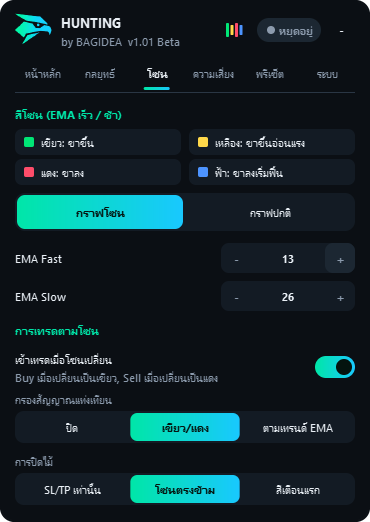
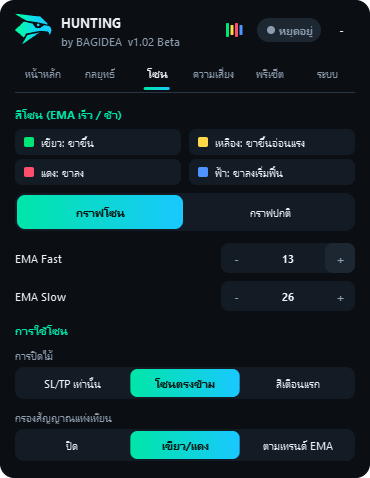
Publish Hunting website v1.02 Beta

diff --git a/index.html b/index.html
@@ -60,7 +60,7 @@
   <h2>ทุกอย่างที่ต้องใช้ อยู่ใน EA เดียว</h2>
   <div class="grid">
     <article class="card"><h3>สัญญาณแท่งเทียน 3 แบบ</h3><p>Doji Reversal, Trend Continuation และ Pin Bar Breakout เปิดปิดแยกกันได้ และปรับความไวได้</p></article>
-    <article class="card"><h3>Trend Zone 4 สี</h3><p>ระบายสีแท่งเทียนจาก EMA 12/26 ใช้กรองสัญญาณ เข้าไม้เมื่อโซนเปลี่ยน และปิดไม้ตามโซนได้</p></article>
+    <article class="card"><h3>Trend Zone 4 สี</h3><p>ระบายสีแท่งเทียนจาก EMA 12/26 ใช้ปิดไม้เมื่อโซนเปลี่ยน และเลือกกรองสัญญาณแท่งเทียนตามสีได้</p></article>
     <article class="card"><h3>เทรดทีละไม้หรือซ้อนไม้</h3><p>กำหนดจำนวนไม้สูงสุดและระยะห่างขั้นต่ำ บนบัญชี Netting ระบบจะจำกัดที่ครั้งละ 1 ไม้ให้เอง</p></article>
     <article class="card"><h3>ตัวป้องกันความเสี่ยง</h3><p>จำกัดขาดทุนรายวัน จำกัด Spread กำหนดเวลาเทรด และตรวจ Margin กับข้อกำหนดโบรกเกอร์ก่อนส่งออเดอร์</p></article>
     <article class="card"><h3>พรีเซ็ตนำเข้า/ส่งออกได้</h3><p>บันทึกการตั้งค่าเป็น .json เพื่อแชร์ และ .set เพื่อใช้ใน Strategy Tester ไฟล์ใช้ร่วมกันได้ทุก Terminal ในเครื่อง</p></article>
@@ -73,9 +73,9 @@
   <h2>อ่านเทรนด์ได้จากสีแท่งเทียน</h2>
   <p class="sub">สีของแต่ละแท่งมาจากความสัมพันธ์ของ EMA เร็ว (12) EMA ช้า (26) และราคาปิด ปรับค่า EMA ได้จากหน้า "โซน"</p>
   <div class="zones">
-    <article class="zone z-green"><span class="candle"></span><div><h3>เขียว: ขาขึ้น</h3><p>EMA 12 อยู่เหนือ EMA 26 และราคาปิดอยู่เหนือ EMA 12</p><small>EA เปิด Buy ได้เมื่อโซนเปลี่ยนเป็นสีนี้</small></div></article>
+    <article class="zone z-green"><span class="candle"></span><div><h3>เขียว: ขาขึ้น</h3><p>EMA 12 อยู่เหนือ EMA 26 และราคาปิดอยู่เหนือ EMA 12</p><small>EA ปิด Sell เมื่อโซนเปลี่ยนเป็นสีนี้</small></div></article>
     <article class="zone z-yellow"><span class="candle"></span><div><h3>เหลือง: ขาขึ้นอ่อนแรง</h3><p>EMA 12 ยังอยู่เหนือ EMA 26 แต่ราคาปิดหลุดต่ำกว่า EMA 12</p><small>สัญญาณเตือน เลือกให้ปิด Buy ที่จุดนี้ได้</small></div></article>
-    <article class="zone z-red"><span class="candle"></span><div><h3>แดง: ขาลง</h3><p>EMA 12 อยู่ใต้ EMA 26 และราคาปิดอยู่ใต้ EMA 12</p><small>EA เปิด Sell ได้เมื่อโซนเปลี่ยนเป็นสีนี้</small></div></article>
+    <article class="zone z-red"><span class="candle"></span><div><h3>แดง: ขาลง</h3><p>EMA 12 อยู่ใต้ EMA 26 และราคาปิดอยู่ใต้ EMA 12</p><small>EA ปิด Buy เมื่อโซนเปลี่ยนเป็นสีนี้</small></div></article>
     <article class="zone z-blue"><span class="candle"></span><div><h3>ฟ้า: ขาลงเริ่มฟื้น</h3><p>EMA 12 ยังอยู่ใต้ EMA 26 แต่ราคาปิดยืนเหนือ EMA 12 ได้</p><small>สัญญาณเตือน เลือกให้ปิด Sell ที่จุดนี้ได้</small></div></article>
   </div>
   <div class="view-switch" role="group" aria-label="สลับมุมมองกราฟ">
@@ -95,9 +95,9 @@
   <div class="tabs" role="tablist" aria-label="หน้าของแผงควบคุม">
     <button role="tab" aria-selected="true" data-shot="panel-home" data-text="ดูสถานะ กำไรขาดทุน จำนวนไม้ และ Spread ได้ในหน้าเดียว พร้อมปุ่มเริ่มหรือหยุด EA และปุ่มปิดไม้ทั้งหมด">หน้าหลัก</button>
     <button role="tab" aria-selected="false" data-shot="panel-strategy" data-text="เลือกทิศทาง Buy, Sell หรือทั้งคู่ เปิดปิดรูปแบบสัญญาณ และปรับความไวของแต่ละแบบ">กลยุทธ์</button>
-    <button role="tab" aria-selected="false" data-shot="panel-zone" data-text="สลับกราฟโซนกับกราฟปกติได้ทันที ตั้งค่า EMA เปิดการเข้าไม้เมื่อโซนเปลี่ยน กรองสัญญาณ และเลือกวิธีปิดไม้">โซน</button>
+    <button role="tab" aria-selected="false" data-shot="panel-zone" data-text="สลับกราฟโซนกับกราฟปกติได้ทันที ตั้งค่า EMA เลือกวิธีปิดไม้ และกรองสัญญาณตามสี">โซน</button>
     <button role="tab" aria-selected="false" data-shot="panel-risk" data-text="กำหนด Lot, SL, TP โหมดซ้อนไม้ Spread สูงสุด ขีดจำกัดขาดทุนรายวัน และเวลาเทรด กดที่ตัวเลขเพื่อพิมพ์ค่าเองได้">ความเสี่ยง</button>
-    <button role="tab" aria-selected="false" data-shot="panel-presets" data-text="ใช้พรีเซ็ตสำเร็จรูป 9 แบบ หรือบันทึกของตัวเองแล้วส่งออกเป็น .json และ .set">พรีเซ็ต</button>
+    <button role="tab" aria-selected="false" data-shot="panel-presets" data-text="ใช้พรีเซ็ตสำเร็จรูป 8 แบบ หรือบันทึกของตัวเองแล้วส่งออกเป็น .json และ .set">พรีเซ็ต</button>
     <button role="tab" aria-selected="false" data-shot="panel-system" data-text="สลับภาษาไทยหรืออังกฤษ ปรับขนาดแผง แสดงลูกศรจุดเข้าเทรด และตั้ง Magic Number">ระบบ</button>
   </div>
   <div class="panel-view">
